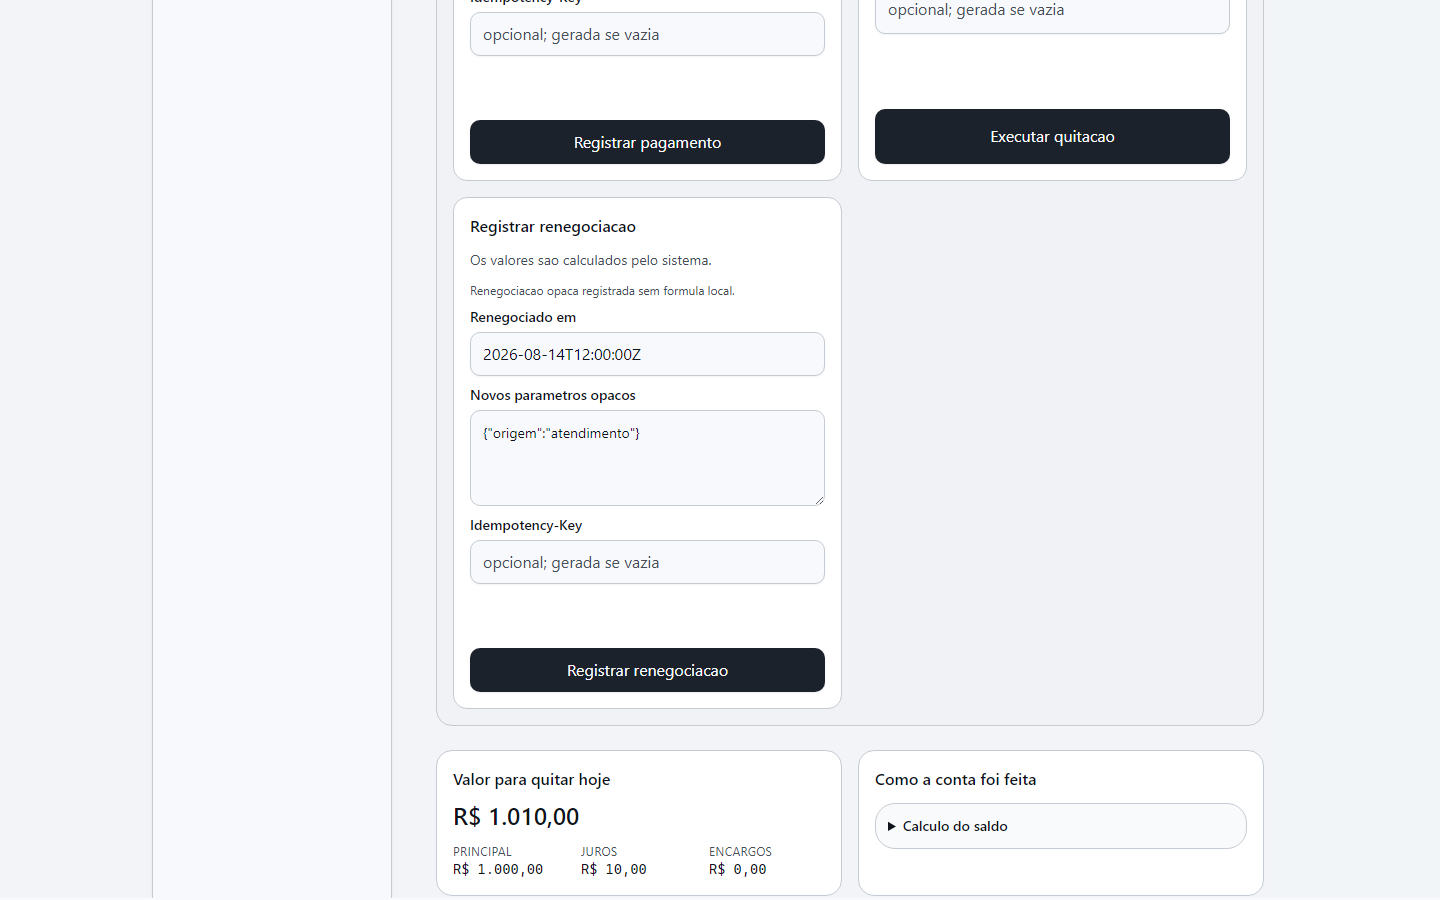
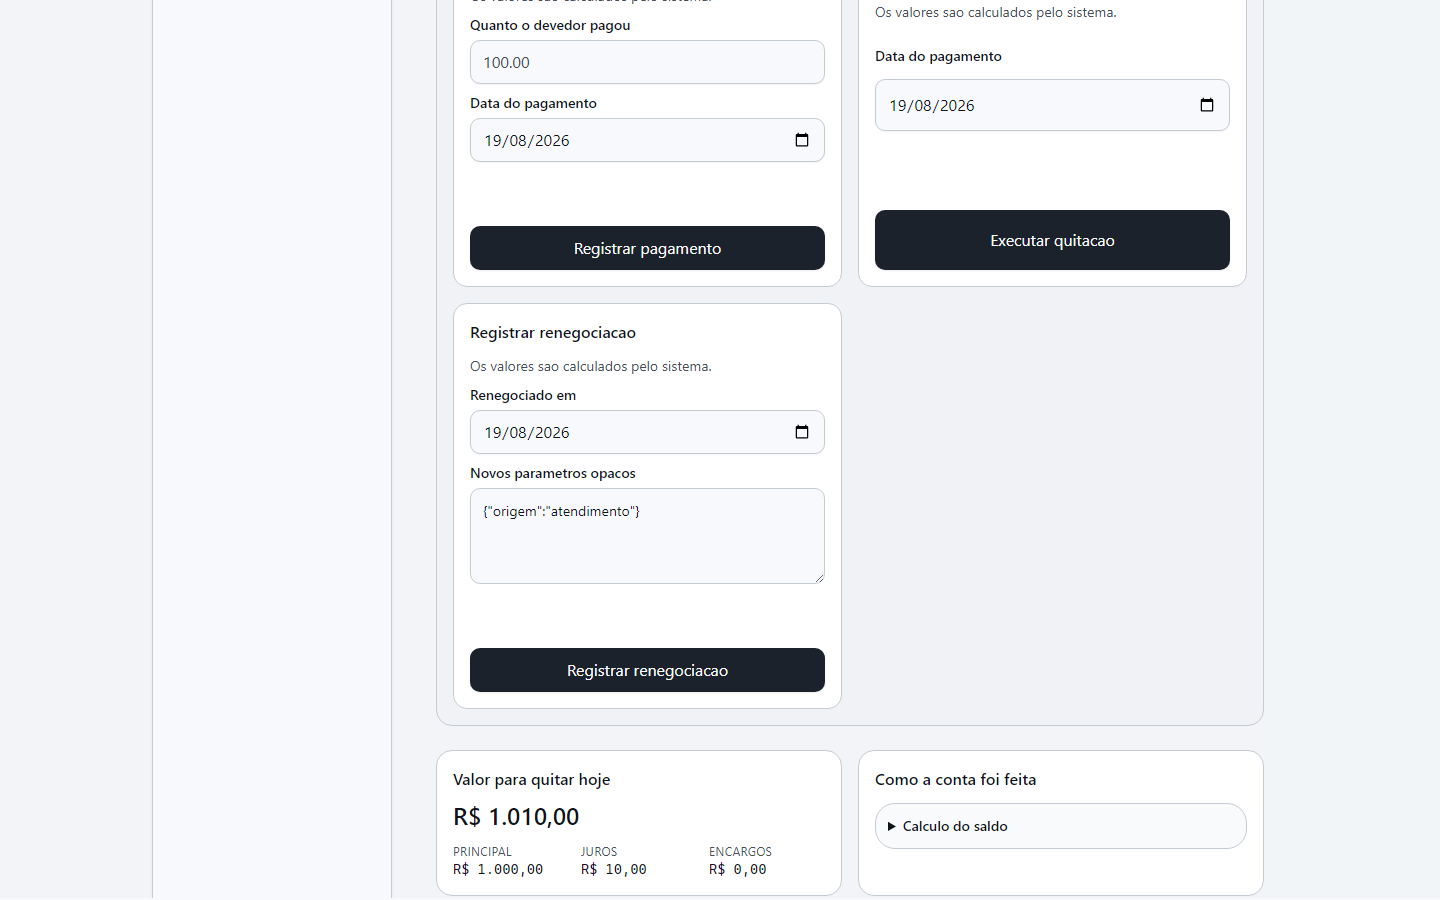
fix(motor): pagamento deixa de exigir plano de parcelas (IMP-327)
Ao exercitar a tela contra a stack real, o fluxo central do produto nao
funcionava. Registrar um pagamento devolvia:

    conflito_estado: plano de parcelas deve ser gerado antes do pagamento

No emprestimo livre nao ha plano, e o pagamento e justamente o evento que
move a divida. A regra fazia sentido no modelo antigo e agora impedia o
unico caminho que o produto tem. Removida do pagamento e da quitacao — o
valor de quitar vem do saldo, que existe desde o primeiro dia.

**Nenhum teste cobria essa regra.** A suite de 999 seguiu verde com a
remocao, o que confirma que ela nunca foi verificada. Foi encontrada
usando a tela, nao rodando os testes.

Segundo defeito no mesmo caminho: o campo de valor recusava "500,00" com
"Informe pagamento valido". O Credor digita virgula, que e como se escreve
dinheiro em portugues. A troca e de pontuacao, feita por texto, e o Motor
continua sendo a unica autoridade sobre o valor.

O formulario de pagamento era de programador. `Recebido em` era texto
livre com `2026-08-14T12:00:00Z` fixo no codigo — data de cinco dias
antes, que o Credor teria de corrigir a mao em formato ISO. Virou campo de
data com hoje preenchido, resolvido no servidor. A conversao usa meio-dia
UTC, e nao meia-noite: em America/Sao_Paulo `00:00Z` e 21h do dia
anterior, e o pagamento mudaria de dia sozinho. `Idempotency-Key` saiu da
vista: e protocolo, nao decisao do Credor, e o BFF ja a gera quando o
campo nao vem.
[…]

diff --git a/frontend/src/components/motor/motor-command-dialog.client.tsx b/frontend/src/components/motor/motor-command-dialog.client.tsx
@@ -40,10 +40,12 @@ export function CreateLoanForm({ action, initialContractId, initialState }: Read
   );
 }
 
-export function MotorCommandForm({ action, command, emprestimoId, initialState }: Readonly<{
+export function MotorCommandForm({ action, command, emprestimoId, hoje, initialState }: Readonly<{
   action: Action;
   command: MotorCommand;
   emprestimoId: string;
+  /** Hoje, vindo do servidor: o navegador nao escolhe data de operacao financeira. */
+  hoje: string;
   initialState: MotorActionState;
 }>) {
   const [state, formAction, pending] = useActionState(action, initialState);
@@ -65,7 +67,7 @@ export function MotorCommandForm({ action, command, emprestimoId, initialState }
     <form action={formAction} className="grid gap-3 rounded-lg border bg-card p-4">
       <h3 className="font-semibold">{title}</h3>
       <p className="text-sm text-muted-foreground">Os valores sao calculados pelo sistema.</p>
-      <p className="text-xs text-muted-foreground">{evidence}</p>
+      <p className="sr-only">{evidence}</p>
       <input name="command" type="hidden" value={command} />
       <input name="emprestimo_id" type="hidden" value={emprestimoId} />
       {command === "gerar-parcelas" ? (
@@ -77,26 +79,26 @@ export function MotorCommandForm({ action, command, emprestimoId, initialState }
       {command === "registrar-pagamento" ? (
         <>
           <div className="grid gap-2">
-            <Label htmlFor={`${command}-valor`}>Valor recebido</Label>
+            <Label htmlFor={`${command}-valor`}>Quanto o devedor pagou</Label>
             <Input id={`${command}-valor`} inputMode="decimal" name="valor" placeholder="100.00" />
           </div>
           <div className="grid gap-2">
-            <Label htmlFor={`${command}-recebido_em`}>Recebido em</Label>
-            <Input defaultValue="2026-08-14T12:00:00Z" id={`${command}-recebido_em`} name="recebido_em" />
+            <Label htmlFor={`${command}-recebido_em`}>Data do pagamento</Label>
+            <Input defaultValue={hoje} id={`${command}-recebido_em`} name="recebido_em" type="date" />
           </div>
         </>
       ) : null}
       {command === "executar-quitacao" ? (
         <div className="grid gap-2">
-          <Label htmlFor={`${command}-recebido_em`}>Recebido em</Label>
-          <Input defaultValue="2026-08-14T12:00:00Z" id={`${command}-recebido_em`} name="recebido_em" />
+          <Label htmlFor={`${command}-recebido_em`}>Data do pagamento</Label>
+          <Input defaultValue={hoje} id={`${command}-recebido_em`} name="recebido_em" type="date" />
         </div>
       ) : null}
       {command === "registrar-renegociacao" ? (
         <>
           <div className="grid gap-2">
             <Label htmlFor={`${command}-renegociado_em`}>Renegociado em</Label>
-            <Input defaultValue="2026-08-14T12:00:00Z" id={`${command}-renegociado_em`} name="renegociado_em" />
+            <Input defaultValue={hoje} id={`${command}-renegociado_em`} name="renegociado_em" type="date" />
           </div>
           <div className="grid gap-2">
             <Label htmlFor={`${command}-novos_parametros`}>Novos parametros opacos</Label>
@@ -104,12 +106,9 @@ export function MotorCommandForm({ action, command, emprestimoId, initialState }
           </div>
         </>
       ) : null}
-      {command !== "gerar-parcelas" ? (
-        <div className="grid gap-2">
-          <Label htmlFor={`${command}-idempotency_key`}>Idempotency-Key</Label>
-          <Input id={`${command}-idempotency_key`} name="idempotency_key" placeholder="opcional; gerada se vazia" />
-        </div>
-      ) : null}
+      {/* Idempotency-Key nao e pedida ao Credor: e protocolo, nao decisao dele.
+          A camada BFF gera uma quando o campo nao vem, e a protecao contra
+          duplicidade continua exatamente igual. */}
       <Status state={state} />
       <Button disabled={pending} type="submit">{title}</Button>
     </form>

diff --git a/frontend/src/lib/bff/motor.server.ts b/frontend/src/lib/bff/motor.server.ts
@@ -4,7 +4,7 @@ import type { components } from "../api/openapi.generated";
 import { createBackendClient } from "../api/client.server";
 import {
   formDate,
-  formDateTime,
+  formDataDeRecebimento,
   formMoney,
   formString,
   hasExactPermission,
@@ -467,7 +467,7 @@ export async function createInstallmentPlan(cookies: CookieStore, context: Opera
 
 export async function registerPayment(cookies: CookieStore, context: OperationalContext, loanId: string, formData: FormData, dependencies: BffDependencies): Promise<MotorActionState> {
   const valor = formMoney(formData, "valor");
-  const recebidoEm = formDateTime(formData, "recebido_em");
+  const recebidoEm = formDataDeRecebimento(formData, "recebido_em");
   if (!isUuid(loanId) || !valor || !recebidoEm) return { kind: "problem", message: "Informe pagamento valido.", status: 400, correlationId: correlationId() };
   const body: PaymentCreateRequest = { valor, recebido_em: recebidoEm };
   return executeMutation(cookies, context, dependencies, MOTOR_PAYMENT_CREATE_PERMISSION, 200, (client, _carteiraId, correlation) => client.POST(
@@ -477,7 +477,7 @@ export async function registerPayment(cookies: CookieStore, context: Operational
 }
 
 export async function executeSettlement(cookies: CookieStore, context: OperationalContext, loanId: string, formData: FormData, dependencies: BffDependencies): Promise<MotorActionState> {
-  const recebidoEm = formDateTime(formData, "recebido_em");
+  const recebidoEm = formDataDeRecebimento(formData, "recebido_em");
   if (!isUuid(loanId) || !recebidoEm) return { kind: "problem", message: "Informe data de quitacao valida.", status: 400, correlationId: correlationId() };
   const body: SettlementRequest = { recebido_em: recebidoEm };
   return executeMutation(cookies, context, dependencies, MOTOR_SETTLEMENT_EXECUTE_PERMISSION, 200, (client, _carteiraId, correlation) => client.POST(
@@ -487,7 +487,7 @@ export async function executeSettlement(cookies: CookieStore, context: Operation
 }
 
 export async function registerRenegotiation(cookies: CookieStore, context: OperationalContext, loanId: string, formData: FormData, dependencies: BffDependencies): Promise<MotorActionState> {
-  const renegociadoEm = formDateTime(formData, "renegociado_em");
+  const renegociadoEm = formDataDeRecebimento(formData, "renegociado_em");
   const novosParametros = parseOpaqueRenegotiationParameters(formString(formData, "novos_parametros", 5_000) ?? "");
   if (!isUuid(loanId) || !renegociadoEm || !novosParametros) return { kind: "problem", message: "Informe Renegociacao opaca valida.", status: 400, correlationId: correlationId() };
   const body: RenegotiationRequest = { novos_parametros: novosParametros, renegociado_em: renegociadoEm };

diff --git a/frontend/src/components/motor/motor.tsx b/frontend/src/components/motor/motor.tsx
@@ -42,6 +42,8 @@ type MotorDetailProps = Readonly<{
   balance: MotorReadResult<Balance>;
   /** Nome do Devedor, resolvido no servidor. Ausente sem permissao de leitura. */
   devedor?: string | undefined;
+  /** Data de hoje, resolvida no servidor. */
+  hoje: string;
   initialState: MotorActionState;
   loan: MotorReadResult<Loan>;
   memories: MotorReadResult<readonly CalculationMemory[]>;
@@ -245,6 +247,7 @@ export function EmprestimosDoDevedor({ recoveryHref, result }: Readonly<{ recove
 }
 
 function DetailCommands({
+  hoje,
   initialState,
   loanId,
   paymentAction,
@@ -252,6 +255,7 @@ function DetailCommands({
   renegotiationAction,
   settlementAction,
 }: Readonly<{
+  hoje: string;
   initialState: MotorActionState;
   loanId: string;
   paymentAction: MotorAction;
@@ -262,13 +266,13 @@ function DetailCommands({
   return (
     <section className="grid gap-4 lg:grid-cols-2">
       {hasExactPermission(permissions, MOTOR_PAYMENT_CREATE_PERMISSION) ? (
-        <MotorCommandForm action={paymentAction} command="registrar-pagamento" emprestimoId={loanId} initialState={initialState} />
+        <MotorCommandForm action={paymentAction} command="registrar-pagamento" emprestimoId={loanId} hoje={hoje} initialState={initialState} />
       ) : null}
       {hasExactPermission(permissions, MOTOR_SETTLEMENT_EXECUTE_PERMISSION) ? (
-        <MotorCommandForm action={settlementAction} command="executar-quitacao" emprestimoId={loanId} initialState={initialState} />
+        <MotorCommandForm action={settlementAction} command="executar-quitacao" emprestimoId={loanId} hoje={hoje} initialState={initialState} />
       ) : null}
       {hasExactPermission(permissions, MOTOR_RENEGOTIATION_CREATE_PERMISSION) ? (
-        <MotorCommandForm action={renegotiationAction} command="registrar-renegociacao" emprestimoId={loanId} initialState={initialState} />
+        <MotorCommandForm action={renegotiationAction} command="registrar-renegociacao" emprestimoId={loanId} hoje={hoje} initialState={initialState} />
       ) : null}
     </section>
   );
@@ -409,6 +413,7 @@ function ReadyAuxiliary({ memories, settlementPreview }: Pick<MotorDetailProps, 
 export function MotorDetailPage({
   balance,
   devedor,
+  hoje,
   initialState = INITIAL_MOTOR_ACTION_STATE,
   loan,
   memories,
@@ -437,6 +442,7 @@ export function MotorDetailPage({
             <summary className="cursor-pointer font-semibold">Operacoes deste emprestimo</summary>
             <div className="mt-4">
               <DetailCommands
+                hoje={hoje}
                 initialState={initialState}
                 loanId={loan.data.id}
                 paymentAction={paymentAction}

diff --git a/frontend/tests/unit/motor-policy.test.ts b/frontend/tests/unit/motor-policy.test.ts
@@ -9,6 +9,8 @@ import {
   motorReferenceDate,
   parseOpaqueJson,
   resolveLoanFilters,
+  formDataDeRecebimento,
+  formMoney,
 } from "../../src/lib/motor/motor-policy";
 
 describe("politica do Motor", () => {
@@ -54,5 +56,50 @@ describe("politica do Motor", () => {
   it("usa data de referencia governada quando a URL e invalida", () => {
     expect(motorReferenceDate("2026-08-14")).toBe("2026-08-14");
     expect(motorReferenceDate("2026-99-99")).toBe("2026-08-14");
+  });
+});
+
+describe("data do pagamento", () => {
+  it("aceita a data escolhida no calendario e entrega o instante do contrato", () => {
+    const form = new FormData();
+    form.set("recebido_em", "2026-08-19");
+
+    // Meio-dia UTC, e nao meia-noite: em America/Sao_Paulo `00:00Z` e 21h do dia
+    // anterior, e o pagamento mudaria de dia sozinho.
+    expect(formDataDeRecebimento(form, "recebido_em")).toBe("2026-08-19T12:00:00Z");
+  });
+
+  it("mantem instante completo quando ja vem assim", () => {
+    const form = new FormData();
+    form.set("recebido_em", "2026-08-19T15:30:00Z");
+
+    expect(formDataDeRecebimento(form, "recebido_em")).toBe("2026-08-19T15:30:00Z");
+  });
+
+  it("recusa o que nao for data nem instante, em vez de inventar um dia", () => {
+    const form = new FormData();
+    for (const invalido of ["19/08/2026", "2026-13-01", "ontem", ""]) {
+      form.set("recebido_em", invalido);
+      expect(formDataDeRecebimento(form, "recebido_em")).toBeUndefined();
+    }
+  });
+});
+
+describe("valor em dinheiro no formulario", () => {
+  it("aceita a virgula decimal, que e como se escreve dinheiro em portugues", () => {
+    const form = new FormData();
+    form.set("valor", "500,00");
+
+    expect(formMoney(form, "valor")).toBe("500.00");
+  });
+
+  it("continua aceitando ponto e recusando o que nao for valor", () => {
+    const form = new FormData();
+    form.set("valor", "500.00");
+    expect(formMoney(form, "valor")).toBe("500.00");
+    for (const invalido of ["", "abc", "1.234,56", "-10"]) {
+      form.set("valor", invalido);
+      expect(formMoney(form, "valor")).toBeUndefined();
+    }
   });
 });

diff --git a/frontend/src/lib/motor/motor-policy.ts b/frontend/src/lib/motor/motor-policy.ts
@@ -225,8 +225,32 @@ export function formDateTime(formData: FormData, key: string): string | undefine
   return isDateTime(value) ? value : undefined;
 }
 
+/**
+ * Aceita a data que o Credor escolhe no calendario e devolve o instante que o
+ * contrato exige.
+ *
+ * O formulario pedia `2026-08-14T12:00:00Z` digitado a mao. Agora pede uma data,
+ * e o meio-dia UTC entra aqui. Meio-dia, e nao meia-noite: em America/Sao_Paulo
+ * `00:00Z` e 21h do dia anterior, e um pagamento mudaria de dia sozinho.
+ */
+export function formDataDeRecebimento(formData: FormData, key: string): string | undefined {
+  const bruto = formString(formData, key, 40);
+  if (bruto === undefined) return undefined;
+  // `isDate`, e nao so o formato: "2026-13-01" casa com a forma e nao existe.
+  if (isDate(bruto)) return `${bruto}T12:00:00Z`;
+  return isDateTime(bruto) ? bruto : undefined;
+}
+
+/**
+ * Le um valor em dinheiro do formulario, aceitando a virgula decimal.
+ *
+ * O Credor digita "500,00", que e como se escreve dinheiro em portugues, e o
+ * contrato exige "500.00". A troca e de pontuacao, feita por texto — nao ha
+ * conta aqui, e o Motor continua sendo a unica autoridade sobre o valor.
+ */
 export function formMoney(formData: FormData, key: string): string | undefined {
-  const value = formString(formData, key, 40);
+  const bruto = formString(formData, key, 40);
+  const value = bruto === undefined ? undefined : bruto.replace(",", ".");
   return validMoneyInput(value) ? value : undefined;
 }
 

diff --git a/frontend/tests/component/motor.test.tsx b/frontend/tests/component/motor.test.tsx
@@ -152,6 +152,7 @@ describe("Motor UI", () => {
       <MotorDetailPage
         balance={{ kind: "ready", data: balance }}
         devedor="Maria Souza"
+        hoje="2026-08-19"
         initialState={INITIAL_MOTOR_ACTION_STATE}
         loan={{ kind: "ready", data: comAcerto }}
         memories={{ kind: "denied" }}
@@ -203,6 +204,7 @@ describe("Motor UI", () => {
     render(
       <MotorDetailPage
         balance={{ kind: "ready", data: balance }}
+        hoje="2026-08-19"
         initialState={INITIAL_MOTOR_ACTION_STATE}
         loan={{ kind: "ready", data: loan }}
         memories={{ kind: "ready", data: [memory] }}
@@ -236,6 +238,7 @@ describe("Motor UI", () => {
   it("mantem 404 neutro, 409, 422 e overflow observaveis", () => {
     render(
       <MotorDetailPage
+        hoje="2026-08-19"
         balance={{ kind: "problem", problem: { codigo: "regra_violada", correlationId: "corr-422", mensagem: "422 regra", status: 422 } }}
         initialState={INITIAL_MOTOR_ACTION_STATE}
         loan={{ kind: "problem", problem: { codigo: "recurso_indisponivel", correlationId: "corr-404", mensagem: "backend secreto", status: 404 } }}

diff --git a/frontend/tests/motor-e2e/motor.spec.ts b/frontend/tests/motor-e2e/motor.spec.ts
@@ -113,7 +113,7 @@ test("consulta detalhe, parcelas, saldo, memoria, pagamento e quitacao sem recal
   // Nao ha plano a gerar no emprestimo livre (DR-004).
   await expect(page.getByRole("button", { name: "Gerar parcelas", exact: true })).toHaveCount(0);
   await activateButton(page, "Registrar pagamento");
-  await page.getByLabel("Valor recebido").fill("100.00");
+  await page.getByLabel("Quanto o devedor pagou").fill("100.00");
   await activateButton(page, "Registrar pagamento");
   await expect(page.getByText(/Pagamento idempotente registrado pelo Motor/)).toBeVisible();
   await activateButton(page, "Executar quitacao");

diff --git a/frontend/src/app/app/motor/[emprestimoId]/page.tsx b/frontend/src/app/app/motor/[emprestimoId]/page.tsx
@@ -68,6 +68,7 @@ export default async function MotorDetailRoute({ params, searchParams }: PagePro
   return (
     <MotorDetailPage
       balance={balance}
+      hoje={selectedDate}
       devedor={devedor.kind === "ready" && "nome" in devedor.data ? devedor.data.nome : undefined}
       initialState={INITIAL_MOTOR_ACTION_STATE}
       loan={loan}

diff --git a/src/emprestimo/application/motor_financeiro.py b/src/emprestimo/application/motor_financeiro.py
@@ -509,13 +509,10 @@ class PagamentoService:
                 )
             if replay:
                 raise IdempotenciaConflitoError(idempotency_key, "resultado de pagamento ausente")
+            # A exigencia de plano previo caiu com a DR-004: no emprestimo livre
+            # nao ha plano, e o pagamento e justamente o evento que move a
+            # divida. Exigi-lo aqui impedia o fluxo central do produto.
             parcelas = uow.parcela.find_by_emprestimo_id(emprestimo_id)
-            if not parcelas:
-                raise TransicaoEstadoInvalidaError(
-                    emprestimo_id,
-                    "registrar_pagamento",
-                    "plano de parcelas deve ser gerado antes do pagamento",
-                )
             pagamentos = uow.pagamento.find_by_emprestimo_id(emprestimo_id)
             motor = self._motor_factory()
             motor.carregar_historico(
@@ -722,13 +719,9 @@ class QuitacaoRenegociacaoService:
                 )
             if replay:
                 raise IdempotenciaConflitoError(idempotency_key, "resultado de quitacao ausente")
+            # Idem para a quitacao (DR-004): o valor de quitar vem do saldo, e o
+            # saldo existe desde o primeiro dia do emprestimo.
             parcelas = uow.parcela.find_by_emprestimo_id(emprestimo_id)
-            if not parcelas:
-                raise TransicaoEstadoInvalidaError(
-                    emprestimo_id,
-                    "quitar",
-                    "plano de parcelas deve ser gerado antes da quitacao",
-                )
             motor = _motor_com_historico(self._motor_factory(), uow, emprestimo_id)
             try:
                 calculada = motor.calcular_valor_quitacao(

diff --git a/docs/implementation/backlogs/PLAN-030-execution-backlog.md b/docs/implementation/backlogs/PLAN-030-execution-backlog.md
@@ -2,9 +2,9 @@
 
 **ID:** PLAN-030-EXEC
 
-**Versao:** 1.2.0
+**Versao:** 1.3.0
 
-**Status:** IMP-321..326 concluidos; IMP-327 planejado
+**Status:** IMP-321..326 concluidos; IMP-327 em execucao (telas feitas; remocao no backend pendente)
 
 ---
 
@@ -144,7 +144,33 @@ PLAN-029.
 - **Criterios de conclusao:** nenhum arquivo legado; o inventario deixa de ser
   108/137 e o novo valor e registrado; `test_motor_juros_base.py` sai junto,
   porque descreve um calculo que deixa de existir.
-- **Status:** Planejado.
+- **Status:** Em execucao. Telas concluidas; remocao no backend pendente.
+- **Feito nas telas:** saiu o cartao "Quanto ainda falta", que repetia o
+  extrato; "Como a conta foi feita" deixou de renderizar vazio; e o comando
+  "Gerar parcelas" saiu das operacoes.
+- **Defeito que bloqueava o produto, encontrado ao exercitar a tela:** o Motor
+  recusava pagamento e quitacao com `plano de parcelas deve ser gerado antes do
+  pagamento`. No emprestimo livre nao ha plano, e o pagamento e justamente o
+  evento que move a divida — a regra impedia o fluxo central. Removida das duas
+  operacoes. **Nenhum teste cobria essa regra**: a suite de 999 seguiu verde
+  com a remocao, o que confirma que ela nunca foi verificada.
+- **Segundo defeito, mesmo caminho:** o campo de valor recusava "500,00". O
+  Credor digita virgula, que e como se escreve dinheiro em portugues. A troca e
+  de pontuacao, feita por texto, e o Motor continua sendo a autoridade sobre o
+  valor.
+- **Formulario de pagamento:** `Recebido em` era texto livre com
+  `2026-08-14T12:00:00Z` fixo no codigo — data de cinco dias antes. Virou campo
+  de data com hoje preenchido, resolvido no servidor. A conversao usa meio-dia
+  UTC, e nao meia-noite: em America/Sao_Paulo `00:00Z` e 21h do dia anterior, e
+  o pagamento mudaria de dia sozinho. `Idempotency-Key` saiu da vista — e
+  protocolo, nao decisao do Credor, e o BFF ja a gera.
+- **Um teste que escrevi pegou defeito meu:** a primeira versao aceitava
+  `2026-13-01` porque validava so o formato. Passou a usar `isDate`, que
+  verifica o calendario.
+- **Verificado contra a stack real:** pagamento de R$ 500,00 digitado com
+  virgula gravou `500.00` recebido, `0.00` de juros e `500.00` de amortizacao. O
+  painel passou a mostrar "Deve hoje R$ 9.500,00". Juros zero esta certo — o
+  emprestimo foi lancado no mesmo dia.
 
 ---
 
@@ -152,6 +178,7 @@ PLAN-029.
 
 | Versao | Data | Descricao |
 |---|---|---|
+| 1.3.0 | 2026-08-19 | IMP-327 nas telas: restos do plano removidos, formulario de pagamento operavel e duas regras que bloqueavam o fluxo central corrigidas. |
 | 1.2.0 | 2026-08-19 | IMP-326 concluido na tela: painel do emprestimo livre e extrato no lugar da tabela de parcelas. |
 | 1.1.0 | 2026-08-17 | IMP-325 concluido no Resumo da Carteira: acertos pendentes e principal a receber no lugar dos contadores de parcela. |
 | 1.0.0 | 2026-08-17 | Backlog inicial IMP-321..327; fases A e B concluidas. |

diff --git a/docs/audits/reports/frontend-mvp-imp-294-motor-report-2026-08-14.md b/docs/audits/reports/frontend-mvp-imp-294-motor-report-2026-08-14.md
@@ -67,8 +67,8 @@ reverter arquivos.
 |---|---:|---|
[6 lines of base64/hex data omitted]
 
 ---
 
